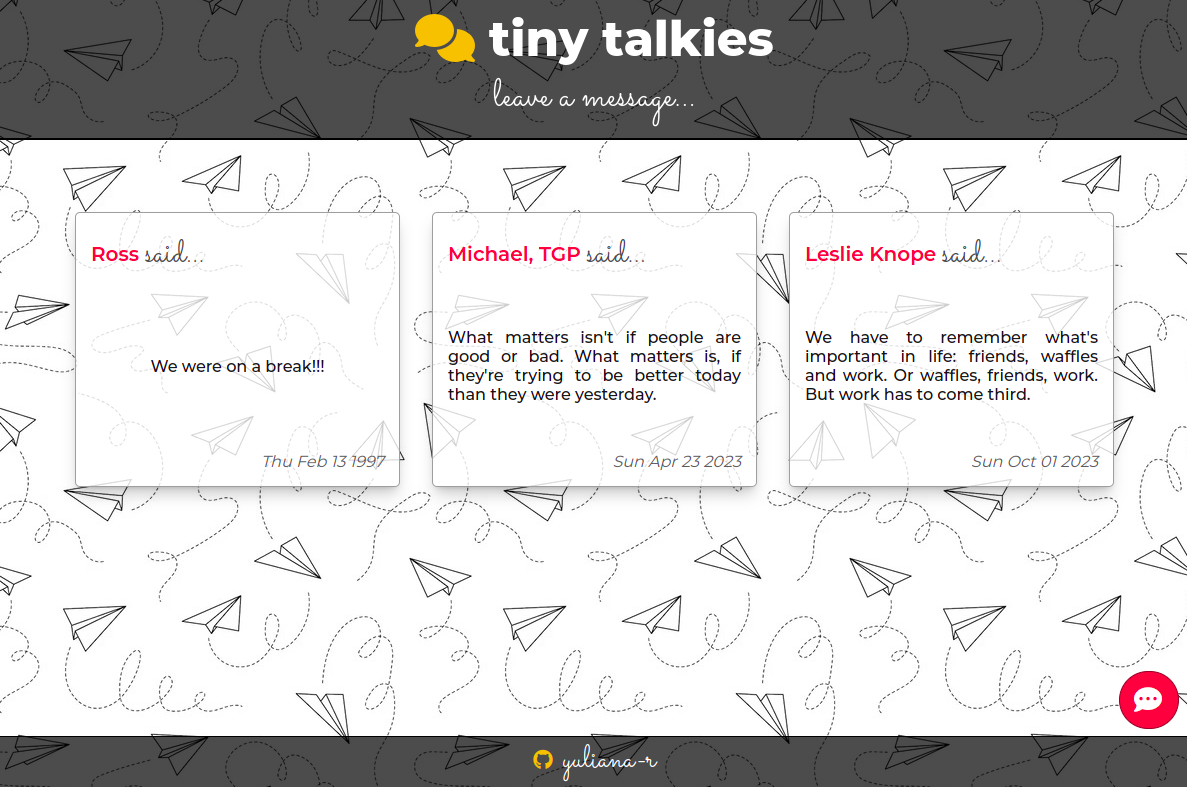
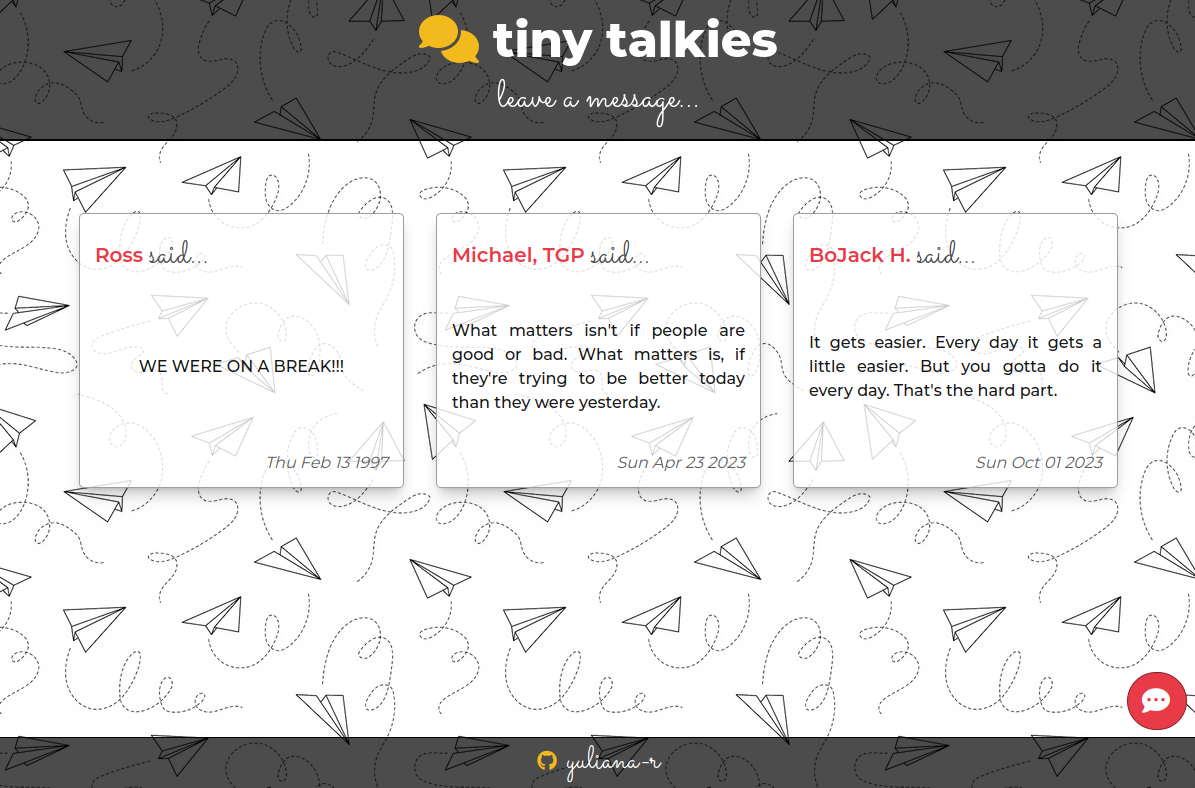
Update message overflow and demo image

diff --git a/routes/index.js b/routes/index.js
@@ -3,7 +3,7 @@ var router = express.Router();
 
 const messages = [
   {
-    text: "We were on a break!!!",
+    text: "WE WERE ON A BREAK!!!",
     user: "Ross",
     added: new Date(Date.parse("02/13/1997"))
   },
@@ -13,8 +13,8 @@ const messages = [
     added: new Date(Date.parse("04/23/2023"))
   },
   {
-    text: "We have to remember what's important in life: friends, waffles and work. Or waffles, friends, work. But work has to come third.",
-    user: "Leslie Knope",
+    text: "It gets easier. Every day it gets a little easier. But you gotta do it every day. That's the hard part.",
+    user: "BoJack H.",
     added: new Date(Date.parse("10/01/2023"))
   }
 ]

diff --git a/public/stylesheets/index.css b/public/stylesheets/index.css
@@ -249,6 +249,9 @@ label {
   color: #131313;
   font-weight: 500;
   word-break: break-word;
+  line-height: 1.5;
+  overflow: hidden;
+  text-overflow: ellipsis;
 }
 
 .message-date {
